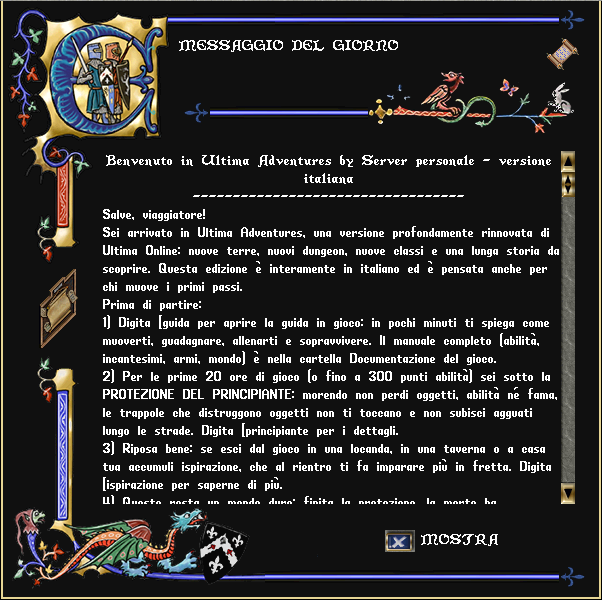
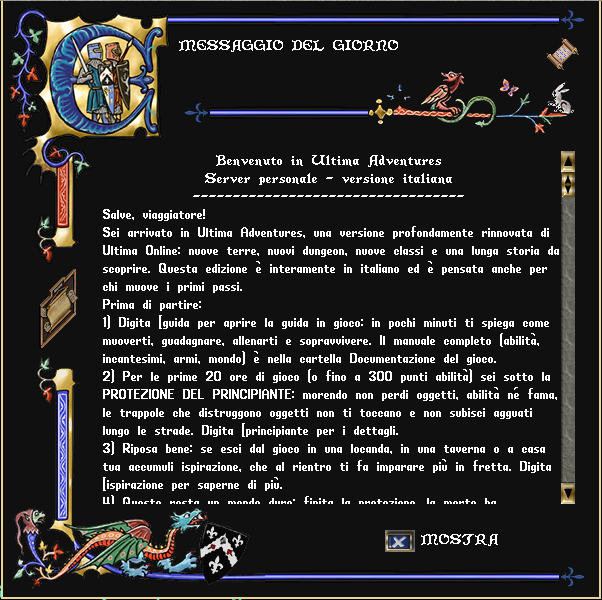
Messaggio del giorno: autore su una riga a sé; screenshot aggiornato

Changed region(s): [[0.3289, 0.24, 0.7774, 0.33], [0.8671, 0.24, 0.897, 0.27], [0.1794, 0.24, 0.2093, 0.27]]

diff --git a/Server/Scripts/Server Functions/MOTD/Utility.cs b/Server/Scripts/Server Functions/MOTD/Utility.cs
@@ -119,7 +119,7 @@ namespace Joeku.MOTD
 				switch( i )
 				{
 					case 0:
-						lines += String.Format( "<CENTER><BIG>{0} ", list[i] );
+						lines += String.Format( "<CENTER><BIG>{0}<BR>", list[i] );
 						break;
 					case 1:
 						lines += String.Format( "{0}<BR>----------------------------------</BIG></CENTER>", list[i] );
